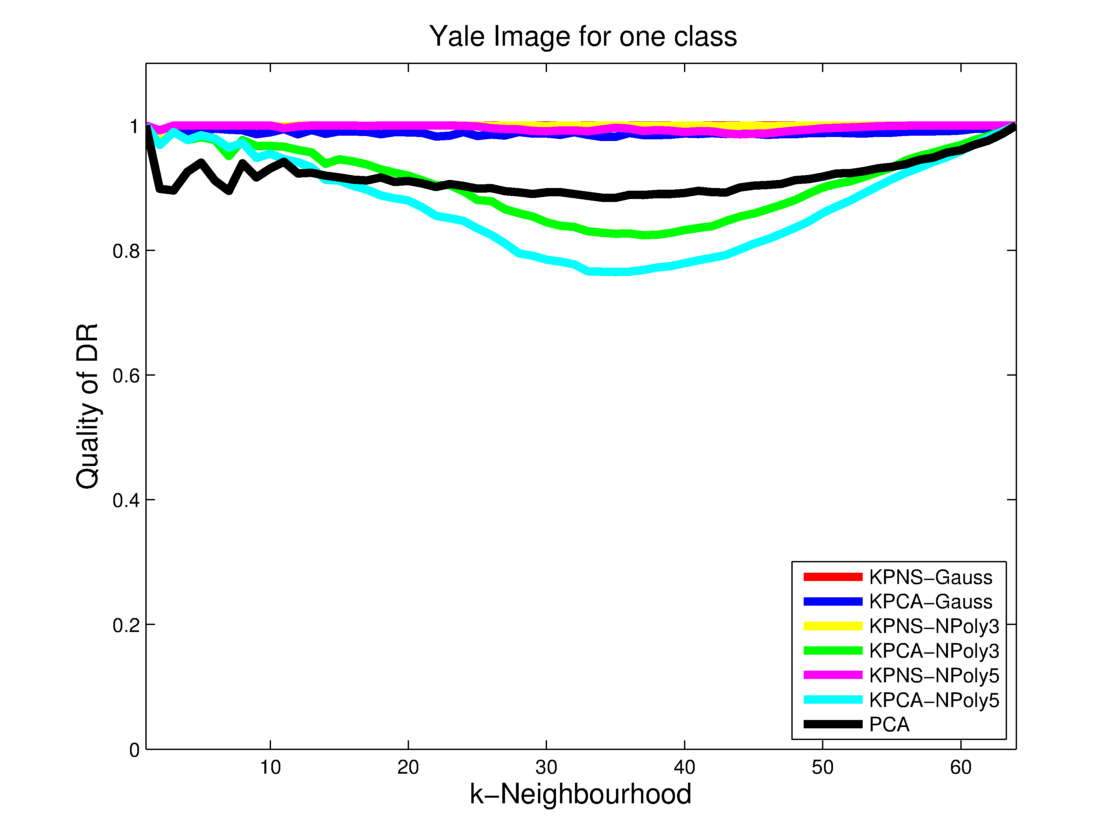
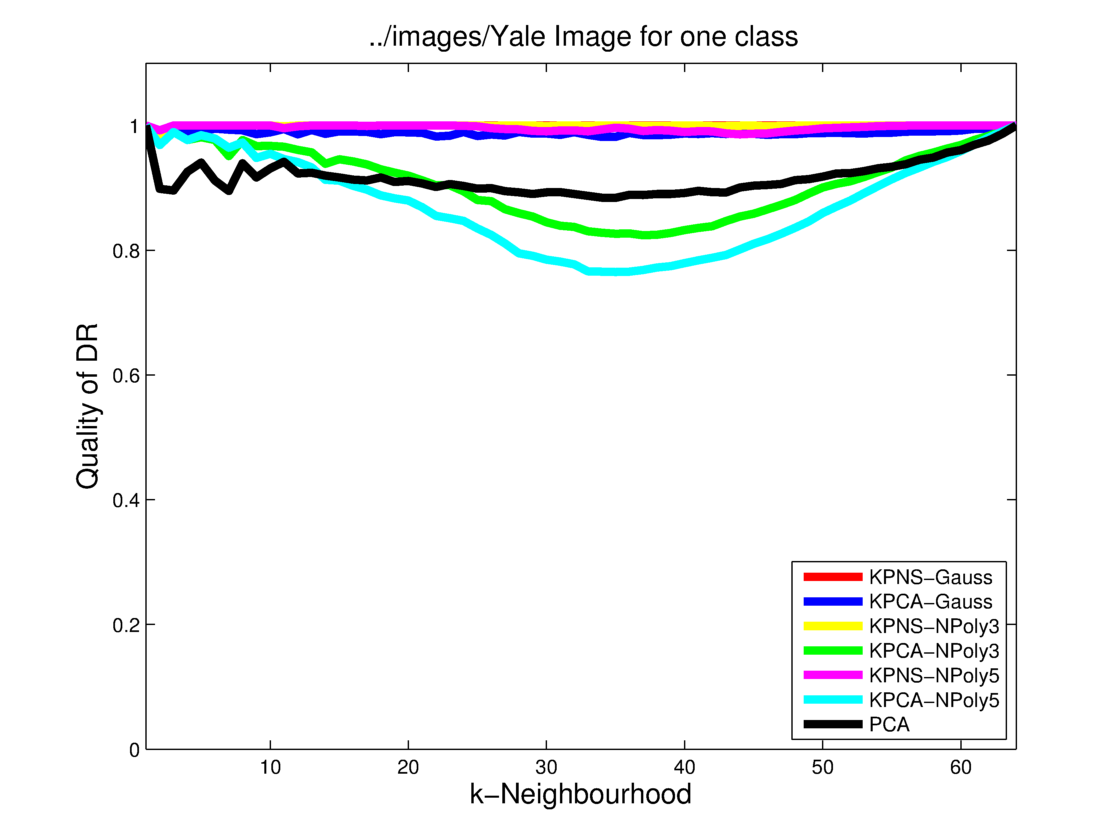
Added plot QDR

Changed region(s): [[0.3438, 0.031, 0.7188, 0.0619]]

diff --git a/code/kpns/plot_QDR.m b/code/kpns/plot_QDR.m
@@ -1,0 +1,39 @@
+function [] = plot_QDR( Data, name )
+
+name_temp = strcat('../images/',name);
+QDR_KPNS_Gauss = dlmread(strcat(name_temp, 'QDR_KPNS_QUASS.txt'));
+QDR_KPCA_Gauss = dlmread(strcat(name_temp, 'QDR_KPCA_Gauss.txt'));
+QDR_KPNS_NPoly_3 = dlmread(strcat(name_temp, 'QDR_KPNS_NPoly_3.txt'));
+QDR_KPCA_NPoly_3 = dlmread(strcat(name_temp, 'QDR_KPCA_NPoly_3.txt'));
+QDR_KPNS_NPoly_5 = dlmread(strcat(name_temp, 'QDR_KPNS_NPoly_5.txt'));
+QDR_KPCA_NPoly_5 = dlmread(strcat(name_temp, 'QDR_KPCA_NPoly_5.txt'));
+QDR_KPCA_linear = dlmread(strcat(name_temp, 'QDR_KPCA_linear.txt'));
+
+
+linewidth = 4;
+plot(QDR_KPNS_Gauss(2,:),QDR_KPNS_Gauss(1,:),'r-','LineWidth',linewidth);
+hold on;
+plot(QDR_KPCA_Gauss(2,:),QDR_KPCA_Gauss(1,:),'b-','LineWidth',linewidth);
+hold on;
+plot(QDR_KPNS_NPoly_3(2,:),QDR_KPNS_NPoly_3(1,:),'y-','LineWidth',linewidth);
+hold on;
+plot(QDR_KPCA_NPoly_3(2,:),QDR_KPCA_NPoly_3(1,:),'g-','LineWidth',linewidth);
+hold on;
+plot(QDR_KPNS_NPoly_5(2,:),QDR_KPNS_NPoly_5(1,:),'m-','LineWidth',linewidth);
+hold on
+plot(QDR_KPCA_NPoly_5(2,:),QDR_KPCA_NPoly_5(1,:),'c-','LineWidth',linewidth);
+hold on
+plot(QDR_KPCA_linear(2,:),QDR_KPCA_linear(1,:),'k-','LineWidth',linewidth);
+%%%%%%%%%%%%%%%
+filePath = strcat('../images_new/' , name);
+title(name,'FontSize',14);
+xlabel('k-Neighbourhood','FontSize',14);
+ylabel('Quality of DR','FontSize',14);
+legend('KPNS-Gauss','KPCA-Gauss','KPNS-NPoly3','KPCA-NPoly3','KPNS-NPoly5','KPCA-NPoly5','PCA','Location', 'southeast')
+axis([1,size(Data,2),0,1.1]) 
+set(gcf, 'Color', 'w');
+% set(findall(gcf,'type','text'),'fontSize',14);
+export_fig(filePath,'-nocrop', '-painters','-m2', '-png');
+
+end
+

diff --git a/code/kpns/dim_reduction_yale.m b/code/kpns/dim_reduction_yale.m
@@ -39,5 +39,6 @@ Data = normc(Data);
 
 
 PGS =1;
-Total_R = dim_reduction_data(Data,'Yale Image for one class');
-Total_R
+% Total_R = dim_reduction_data(Data,'Yale Image for one class');
+% Total_R
+plot_QDR(Data,'Yale Image for one class');
